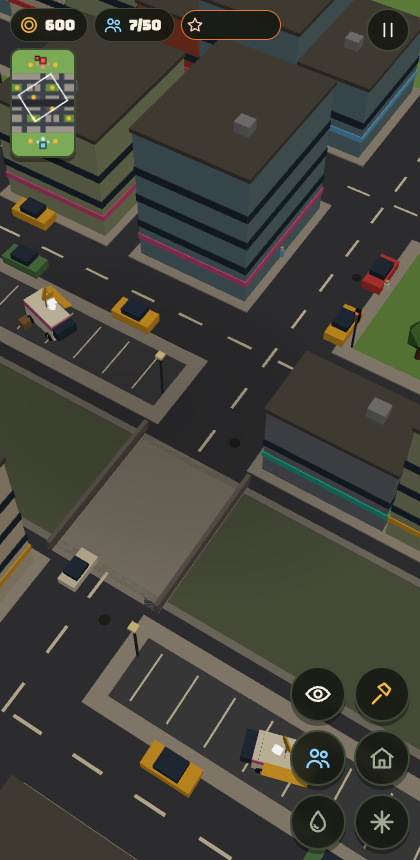
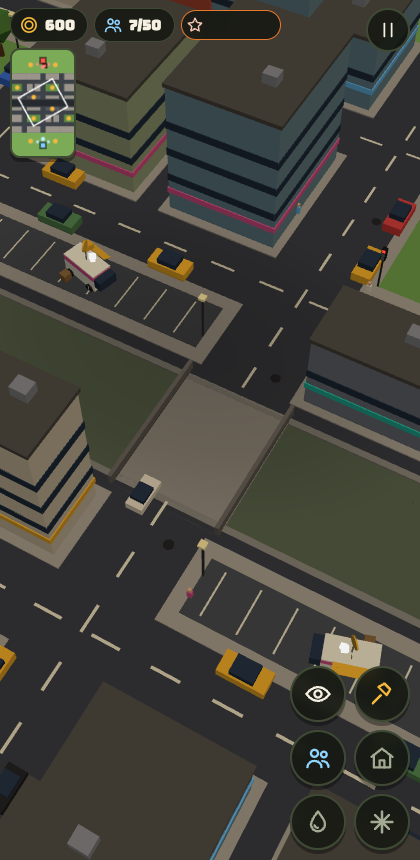
B111: Minimap objectives: the King of the Hill hill and the three Capture and Hold flags are drawn as rings in their holder's colour (white = nobody), flickering blue/red when contested
Claude-Session: https://claude.ai/code/session_01FXzpagnksiDmMAqP3MTiXJ

diff --git a/index.html b/index.html
@@ -6,7 +6,7 @@
 <meta name="viewport" content="width=device-width,initial-scale=1,maximum-scale=1,user-scalable=no,viewport-fit=cover">
 <link rel="preconnect" href="https://fonts.googleapis.com">
 <link rel="stylesheet" href="https://fonts.googleapis.com/css2?family=Bungee&family=Lilita+One&display=swap">
-<link rel="stylesheet" href="./src/ui/style.css?v=110">
+<link rel="stylesheet" href="./src/ui/style.css?v=111">
 <!-- No build step needed: GitHub Pages serves this file straight from main, so bare 'three' imports resolve here. -->
 <script type="importmap">
 { "imports": { "three": "./vendor/three/three.module.min.js", "three/examples/jsm/": "./vendor/three/jsm/" } }
@@ -35,7 +35,7 @@
 <div id="box"></div>
 <div id="holdRing" hidden></div>
 <div id="menu" class="overlay">
-  <h1>Culture <em>Wars</em><span>GREYBOX 04 · <b id="build">B110</b></span></h1>
+  <h1>Culture <em>Wars</em><span>GREYBOX 04 · <b id="build">B111</b></span></h1>
   <div class="diff" id="diff"><button type="button" data-d="0" aria-label="Easy"><span class="ic" data-i="star"></span></button><button type="button" data-d="1" class="on" aria-label="Normal"><span class="ic" data-i="star"></span><span class="ic" data-i="star"></span></button><button type="button" data-d="2" aria-label="Hard"><span class="ic" data-i="star"></span><span class="ic" data-i="star"></span><span class="ic" data-i="star"></span></button><i class="sep"></i><button type="button" class="mode" data-m="vs" aria-label="Versus"><span class="ic" data-i="home"></span></button><button type="button" class="mode" data-m="hill" aria-label="King of the Hill"><span class="ic" data-i="flag"></span></button><button type="button" class="mode" data-m="cap" aria-label="Capture and Hold"><span class="ic" data-i="hold"></span></button><button type="button" class="mode" data-m="race" aria-label="Resource Race"><span class="ic" data-i="coin"></span></button></div>
   <div class="picks">
     <button class="pick" data-f="bw" type="button"><span class="ic" data-i="truck"></span>Backwoods<small>FEWER · TOUGHER</small></button>
@@ -64,6 +64,6 @@
   setTimeout(function () { if (!window.__cwBooted) show('Game script did not start (old cached file? wait a few minutes and reload)'); }, 8000);
 })();
 </script>
-<script type="module" src="./src/main.js?v=110" onerror="__cwLoadFail()"></script>
+<script type="module" src="./src/main.js?v=111" onerror="__cwLoadFail()"></script>
 </body>
 </html>

diff --git a/src/main.js b/src/main.js
@@ -1,22 +1,22 @@
 // Entry point: wires sim + render + input + UI and runs the fixed-step loop.
-import { renderer, scene, camera, followSun, THREE, setTimeOfDay, sun } from './render/scene.js?v=110';
-import { buildWorld, updateWorld, setDusk, setRain, setLowWorld } from './render/world.js?v=110';
-import { syncRender, clearRender, bump } from './render/sync.js?v=110';
-import { handleEvents, updateFx, clearFx } from './fx/fx.js?v=110';
-import { newSim, getSim, step } from './sim/sim.js?v=110';
-import { TICK } from './config/factions.js?v=110';
-import { CAM, applyCam, resetCam, onResize } from './camera/camera.js?v=110';
-import { initInput, lockPageZoom } from './input/input.js?v=110';
-import { refreshHUD, resetHUD, updatePlaceBar } from './ui/hud.js?v=110';
-import { resetUI } from './ui/state.js?v=110';
-import { fillIcons, svg } from './ui/icons.js?v=110';
-import { noteAlerts, updateAlert, clearAlert } from './ui/alert.js?v=110';
-import { updateMinimap } from './ui/minimap.js?v=110';
-import { isMuted, setMuted } from './fx/sfx.js?v=110';
-import { loadChars } from './render/chars.js?v=110';
-import { FC } from './render/models.js?v=110';
+import { renderer, scene, camera, followSun, THREE, setTimeOfDay, sun } from './render/scene.js?v=111';
+import { buildWorld, updateWorld, setDusk, setRain, setLowWorld } from './render/world.js?v=111';
+import { syncRender, clearRender, bump } from './render/sync.js?v=111';
+import { handleEvents, updateFx, clearFx } from './fx/fx.js?v=111';
+import { newSim, getSim, step } from './sim/sim.js?v=111';
+import { TICK } from './config/factions.js?v=111';
+import { CAM, applyCam, resetCam, onResize } from './camera/camera.js?v=111';
+import { initInput, lockPageZoom } from './input/input.js?v=111';
+import { refreshHUD, resetHUD, updatePlaceBar } from './ui/hud.js?v=111';
+import { resetUI } from './ui/state.js?v=111';
+import { fillIcons, svg } from './ui/icons.js?v=111';
+import { noteAlerts, updateAlert, clearAlert } from './ui/alert.js?v=111';
+import { updateMinimap } from './ui/minimap.js?v=111';
+import { isMuted, setMuted } from './fx/sfx.js?v=111';
+import { loadChars } from './render/chars.js?v=111';
+import { FC } from './render/models.js?v=111';
 
-export const BUILD = 110; // written by `npm run bump`
+export const BUILD = 111; // written by `npm run bump`
 lockPageZoom();
 fillIcons();
 buildWorld();

diff --git a/src/render/sync.js b/src/render/sync.js
@@ -1,19 +1,19 @@
 // Mirrors sim state into the scene every frame. Reads the sim, never writes to it.
-import { THREE, scene, camera, mat, box, basic, ringMesh, disposeObj, casts } from './scene.js?v=110';
-import { makeMember, bldMesh, nodeMesh, formation, FC } from './models.js?v=110';
-import { makeChar, charsReady, play, CAST } from './chars.js?v=110';
-import { emit } from '../fx/particles.js?v=110';
-import { bark } from '../fx/sfx.js?v=110';
-import { TICK } from '../config/factions.js?v=110';
-import { walkH } from '../map/layout.js?v=110';
-import { NODE_AMOUNT, BLD, BUILD_RADIUS, FACTIONS } from '../config/factions.js?v=110';
-import { CAM } from '../camera/camera.js?v=110';
+import { THREE, scene, camera, mat, box, basic, ringMesh, disposeObj, casts } from './scene.js?v=111';
+import { makeMember, bldMesh, nodeMesh, formation, FC } from './models.js?v=111';
+import { makeChar, charsReady, play, CAST } from './chars.js?v=111';
+import { emit } from '../fx/particles.js?v=111';
+import { bark } from '../fx/sfx.js?v=111';
+import { TICK } from '../config/factions.js?v=111';
+import { walkH } from '../map/layout.js?v=111';
+import { NODE_AMOUNT, BLD, BUILD_RADIUS, FACTIONS } from '../config/factions.js?v=111';
+import { CAM } from '../camera/camera.js?v=111';
 const fac0 = (S) => FACTIONS[S.players[0].f];
-import { Q, pl, getSim } from '../sim/sim.js?v=110';
-import { UI } from '../ui/state.js?v=110';
-import { fxConfetti, fxDeath } from '../fx/fx.js?v=110';
+import { Q, pl, getSim } from '../sim/sim.js?v=111';
+import { UI } from '../ui/state.js?v=111';
+import { fxConfetti, fxDeath } from '../fx/fx.js?v=111';
 import { mergeGeometries } from 'three/examples/jsm/utils/BufferGeometryUtils.js';
-import { lerpAngle } from '../util/math.js?v=110';
+import { lerpAngle } from '../util/math.js?v=111';
 // Selection rings take your faction colour, washed toward white so they still pop on any ground.
 const selCol = () => { const S = getSim(), f = S && S.players[0].f; return f ? new THREE.Color(FC[f].main).lerp(new THREE.Color(0xffffff), 0.35).getHex() : 0xffffff; };
 

diff --git a/src/ui/minimap.js b/src/ui/minimap.js
@@ -1,8 +1,8 @@
 // Minimap, top-left under the resource chips. Fixed orientation: your base at the bottom (+z), enemy at the top.
 // Tap or drag on it to move the camera there. Static city is drawn once; units/buildings redraw ~10x a second.
-import { MAP, BLOCKS, TRENCH } from '../map/layout.js?v=110';
-import { CAM, focus } from '../camera/camera.js?v=110';
-import { getSim } from '../sim/sim.js?v=110';
+import { MAP, BLOCKS, TRENCH } from '../map/layout.js?v=111';
+import { CAM, focus } from '../camera/camera.js?v=111';
+import { getSim } from '../sim/sim.js?v=111';
 
 const cv = document.getElementById('mini'), ctx = cv.getContext('2d');
 const bg = document.createElement('canvas'), bctx = bg.getContext('2d');
@@ -31,6 +31,12 @@ export function updateMinimap(dt) {
   const S = getSim(); if (!S || !W) return;
   ctx.drawImage(bg, 0, 0);
   const u = dpr;
+  // Objectives: the hill / capture flags as rings in their holder's colour (white = nobody), flickering when contested.
+  const objs = S.hill ? [{ ...S.hill, owner: S.hill.holder }] : S.cap ? S.cap.pts : [];
+  for (const f of objs) {
+    ctx.strokeStyle = f.contested ? (Math.sin(performance.now() / 60) > 0 ? '#7fd1ff' : '#ff5a4f') : f.owner === 0 ? '#7fd1ff' : f.owner === 1 ? '#ff5a4f' : '#f3efe2';
+    ctx.lineWidth = 2 * u; ctx.beginPath(); ctx.arc(px(f.x), pz(f.z), Math.max(4 * u, (pz(f.r) - pz(0)) * Math.sign(pz(1) - pz(0))), 0, 6.29); ctx.stroke();
+  }
   for (const n of S.nodes) if (n.amount > 0) { ctx.fillStyle = '#f5b83a'; ctx.beginPath(); ctx.arc(px(n.x), pz(n.z), 2.4 * u, 0, 6.29); ctx.fill(); }
   for (const b of S.blds) {
     const s = (b.kind === 'hq' ? 6 : 4) * u;

diff --git a/src/ui/hud.js b/src/ui/hud.js
@@ -1,15 +1,15 @@
 // HUD: resource chips, context panel, command buttons, floating placement confirm, long-press labels.
 // Buttons are described as data ("specs") each refresh; the DOM is rebuilt only when the set of buttons changes.
 // Every action goes through sim.command(); Q.* is used only for instant feedback (shake, dim).
-import { svg } from './icons.js?v=110';
-import { UI, select, selSquads } from './state.js?v=110';
-import { getSim, pl, fac, Q, command, count, cpUsed, cpCap, hqOf } from '../sim/sim.js?v=110';
-import { BLD, BUILD_KINDS, TRAIN_SLOTS, UPG, REQ } from '../config/factions.js?v=110';
-import { CAM, toggleView, focus } from '../camera/camera.js?v=110';
-import { camera } from '../render/scene.js?v=110';
-import { walkH } from '../map/layout.js?v=110';
-import { THREE } from '../render/scene.js?v=110';
-import { showHint } from './hint.js?v=110';
+import { svg } from './icons.js?v=111';
+import { UI, select, selSquads } from './state.js?v=111';
+import { getSim, pl, fac, Q, command, count, cpUsed, cpCap, hqOf } from '../sim/sim.js?v=111';
+import { BLD, BUILD_KINDS, TRAIN_SLOTS, UPG, REQ } from '../config/factions.js?v=111';
+import { CAM, toggleView, focus } from '../camera/camera.js?v=111';
+import { camera } from '../render/scene.js?v=111';
+import { walkH } from '../map/layout.js?v=111';
+import { THREE } from '../render/scene.js?v=111';
+import { showHint } from './hint.js?v=111';
 
 const panelEl = document.getElementById('panel'), cmdEl = document.getElementById('cmd'), queueEl = document.getElementById('queue');
 const placeBar = document.getElementById('placeBar'), tipEl = document.getElementById('tip');

diff --git a/src/input/input.js b/src/input/input.js
@@ -4,13 +4,13 @@
 //   hold then drag  = box select
 //   2 fingers       = pinch zoom + twist to rotate + drag to pan
 //   mouse: right-drag = box select, wheel = zoom; keys WASD/arrows pan, Q/E rotate, V ghost cam, Esc cancel
-import { THREE, camera, canvas } from '../render/scene.js?v=110';
-import { walkH } from '../map/layout.js?v=110';
-import { getSim, command } from '../sim/sim.js?v=110';
-import { UI, select, selSquads } from '../ui/state.js?v=110';
-import { CAM, panBy, clampCam, toggleView, pxPerUnit } from '../camera/camera.js?v=110';
-import { fxMarker } from '../fx/fx.js?v=110';
-import { ack } from '../render/sync.js?v=110';
+import { THREE, camera, canvas } from '../render/scene.js?v=111';
+import { walkH } from '../map/layout.js?v=111';
+import { getSim, command } from '../sim/sim.js?v=111';
+import { UI, select, selSquads } from '../ui/state.js?v=111';
+import { CAM, panBy, clampCam, toggleView, pxPerUnit } from '../camera/camera.js?v=111';
+import { fxMarker } from '../fx/fx.js?v=111';
+import { ack } from '../render/sync.js?v=111';
 
 const ray = new THREE.Raycaster(), ndc = new THREE.Vector2(), tmp = new THREE.Vector3();
 export function groundAt(cx, cy) {

diff --git a/src/fx/fx.js b/src/fx/fx.js
@@ -1,12 +1,12 @@
 // Visual effects. Reads sim events, never changes the sim.
 // To add an effect for a new mechanic: emit S.events.push({k:'myThing', ...}) in the sim,
 // then add a case in handleEvents below.
-import { THREE, scene, mat, cyl, basic, disposeObj } from '../render/scene.js?v=110';
-import { walkH } from '../map/layout.js?v=110';
-import { sfx } from './sfx.js?v=110';
-import { shake, CAM } from '../camera/camera.js?v=110';
-import { FC } from '../render/models.js?v=110';
-import { emit, updateParticles, clearParticles, burstHit, burstShot, burstCoins } from './particles.js?v=110';
+import { THREE, scene, mat, cyl, basic, disposeObj } from '../render/scene.js?v=111';
+import { walkH } from '../map/layout.js?v=111';
+import { sfx } from './sfx.js?v=111';
+import { shake, CAM } from '../camera/camera.js?v=111';
+import { FC } from '../render/models.js?v=111';
+import { emit, updateParticles, clearParticles, burstHit, burstShot, burstCoins } from './particles.js?v=111';
 
 const fx = [];
 function addFx(obj, life, upd) { scene.add(obj); fx.push({ obj, life, t: 0, upd }); }

diff --git a/src/render/world.js b/src/render/world.js
@@ -1,10 +1,10 @@
 // Static city: streets, sidewalks, buildings, parks, freeway trench + overpasses, ambient traffic.
 // Built once from map/layout.js. Mostly InstancedMesh so it stays cheap on phones.
-import { THREE, scene, mat, box, setOvercast } from './scene.js?v=110';
-import { CAM } from '../camera/camera.js?v=110';
-import { MAP, BLOCKS, TREES, PARKED, TRENCH, OVERPASSES, AVENUES, CROSS_STREETS, HOME_Z, inRect, walkH } from '../map/layout.js?v=110';
-import { hash } from '../util/math.js?v=110';
-import { emit } from '../fx/particles.js?v=110';
+import { THREE, scene, mat, box, setOvercast } from './scene.js?v=111';
+import { CAM } from '../camera/camera.js?v=111';
+import { MAP, BLOCKS, TREES, PARKED, TRENCH, OVERPASSES, AVENUES, CROSS_STREETS, HOME_Z, inRect, walkH } from '../map/layout.js?v=111';
+import { hash } from '../util/math.js?v=111';
+import { emit } from '../fx/particles.js?v=111';
 
 const COL = {
   asphalt: 0x3d4148, sidewalk: 0xa8a49a, grass: 0x6f9e50, lawn: 0x7cab58, lot: 0x4b4f56, stripe: 0xe8e2c8,

diff --git a/src/sim/sim.js b/src/sim/sim.js
@@ -9,11 +9,11 @@
 import {
   TICK, START_CASH, BUILD_RADIUS, MAX_WORKERS, NODE_AMOUNT, GATHER_T, CARRY, BASE_INCOME, DEPOT_INCOME,
   COUNTER, REQ, UPG, UPT, BLD, FACTIONS,
-} from '../config/factions.js?v=110';
-import { MAP, NODES, BASES, walkH } from '../map/layout.js?v=110';
-import { markCircle, isBlocked, lineClear, nearestFree, findPath, blocked, cellOf, cellCenter, inGrid } from '../map/grid.js?v=110';
-import { mulberry32 } from '../util/math.js?v=110';
-import { aiStep } from './ai.js?v=110';
+} from '../config/factions.js?v=111';
+import { MAP, NODES, BASES, walkH } from '../map/layout.js?v=111';
+import { markCircle, isBlocked, lineClear, nearestFree, findPath, blocked, cellOf, cellCenter, inGrid } from '../map/grid.js?v=111';
+import { mulberry32 } from '../util/math.js?v=111';
+import { aiStep } from './ai.js?v=111';
 
 let S = null;
 export const getSim = () => S;

diff --git a/src/ui/alert.js b/src/ui/alert.js
@@ -1,9 +1,9 @@
 // Under-attack alert: when something of yours is hit somewhere the camera is not looking, a red arrow pulses on
 // the screen edge pointing at it. Tap the arrow to fly there. Newest fight wins; it fades 5 s after the last hit.
-import { THREE, camera } from '../render/scene.js?v=110';
-import { walkH } from '../map/layout.js?v=110';
-import { focus } from '../camera/camera.js?v=110';
-import { svg } from './icons.js?v=110';
+import { THREE, camera } from '../render/scene.js?v=111';
+import { walkH } from '../map/layout.js?v=111';
+import { focus } from '../camera/camera.js?v=111';
+import { svg } from './icons.js?v=111';
 
 const el = document.getElementById('alert');
 el.innerHTML = svg('up');

diff --git a/src/render/chars.js b/src/render/chars.js
@@ -2,7 +2,7 @@
 // clips drives all of them: the clips come from three DONOR files and are retargeted onto each rig by bone name.
 // Nothing here is required: until the files load (or if they fail, e.g. the single-file artifact build) the
 // box placeholders in models.js are used, and sync.js swaps squads over once this reports ready.
-import { THREE } from './scene.js?v=110';
+import { THREE } from './scene.js?v=111';
 import { GLTFLoader } from 'three/examples/jsm/loaders/GLTFLoader.js';
 import { DRACOLoader } from 'three/examples/jsm/loaders/DRACOLoader.js';
 import { clone as skClone } from 'three/examples/jsm/utils/SkeletonUtils.js';

diff --git a/src/render/models.js b/src/render/models.js
@@ -2,7 +2,7 @@
 // SWAP POINT FOR REAL ART: replace makeMember / bldMesh / nodeMesh bodies with GLB clones.
 // Keep the same contract: return a THREE.Group, feet at y=0, facing +z, roughly to the scale below
 // (humans ~1.6 m, monster truck ~3 m long). userData.legs (optional) = [leftLeg, rightLeg] for walk swing.
-import { THREE, box, cyl, mat } from './scene.js?v=110';
+import { THREE, box, cyl, mat } from './scene.js?v=111';
 
 export const FC = {
   bw: { main: 0xe8792b, dark: 0x5a3a22, skin: 0xf2c9a0, alt: 0x3d5a80, hair: 0x4a2e1a },
